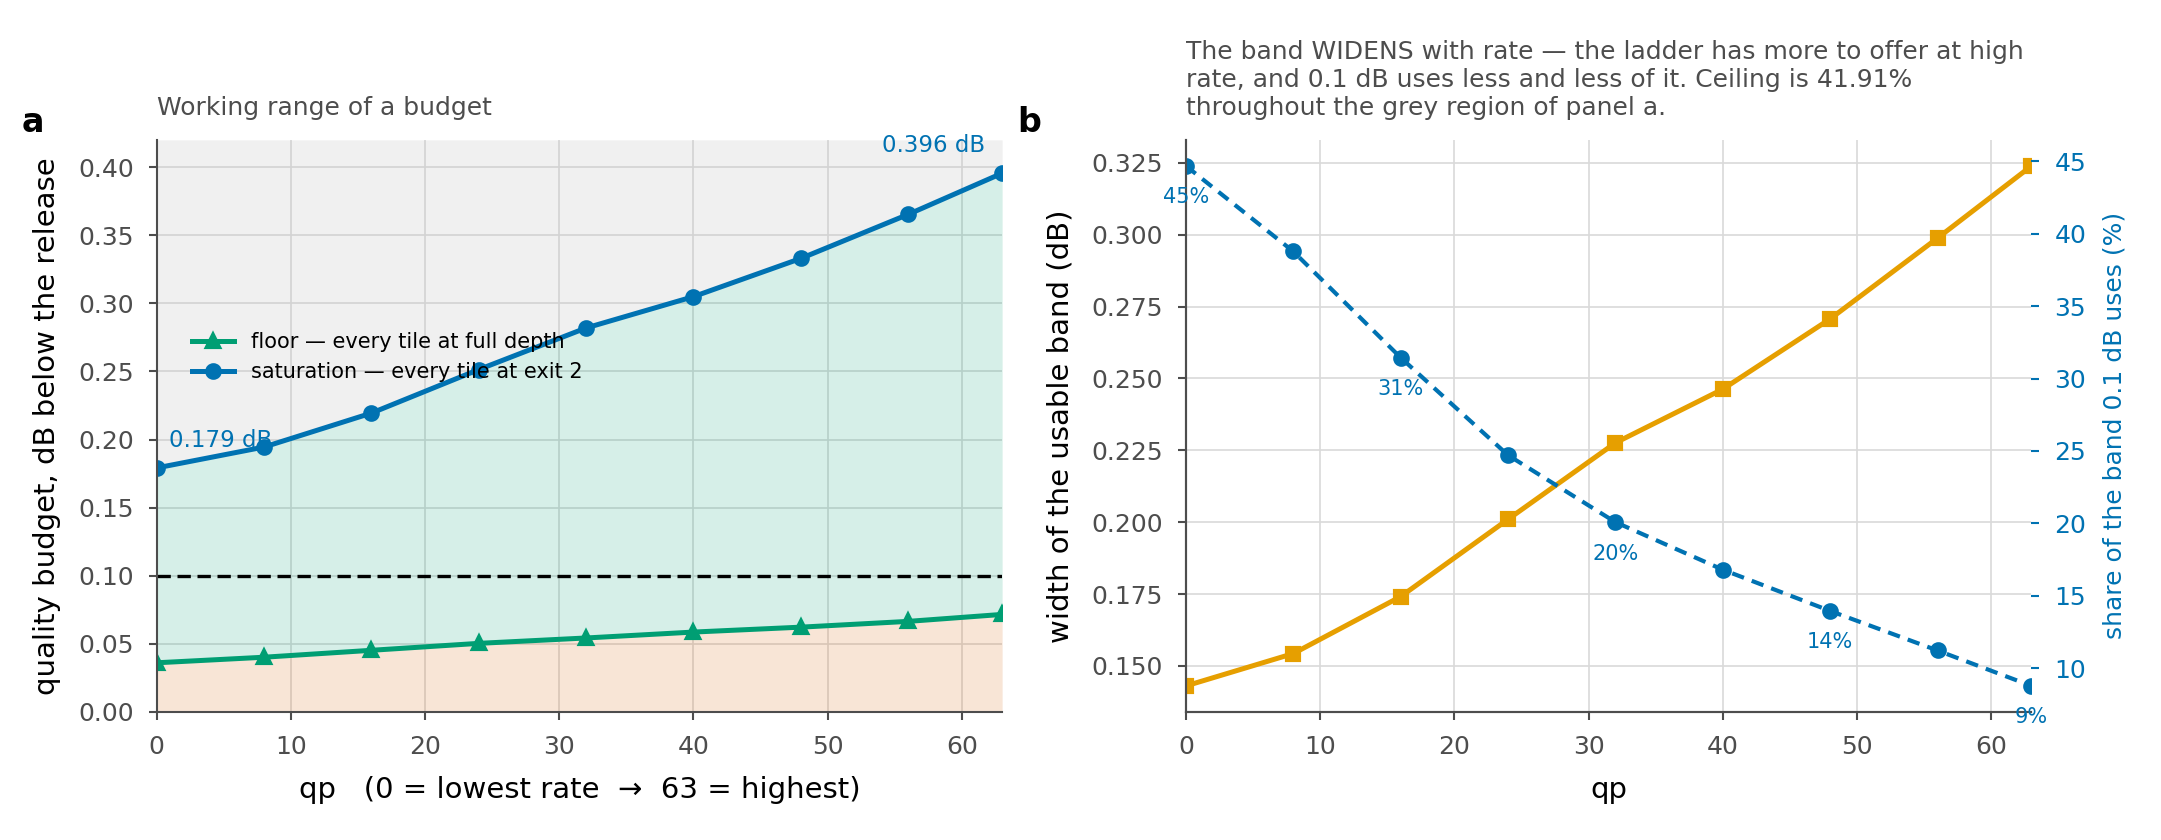
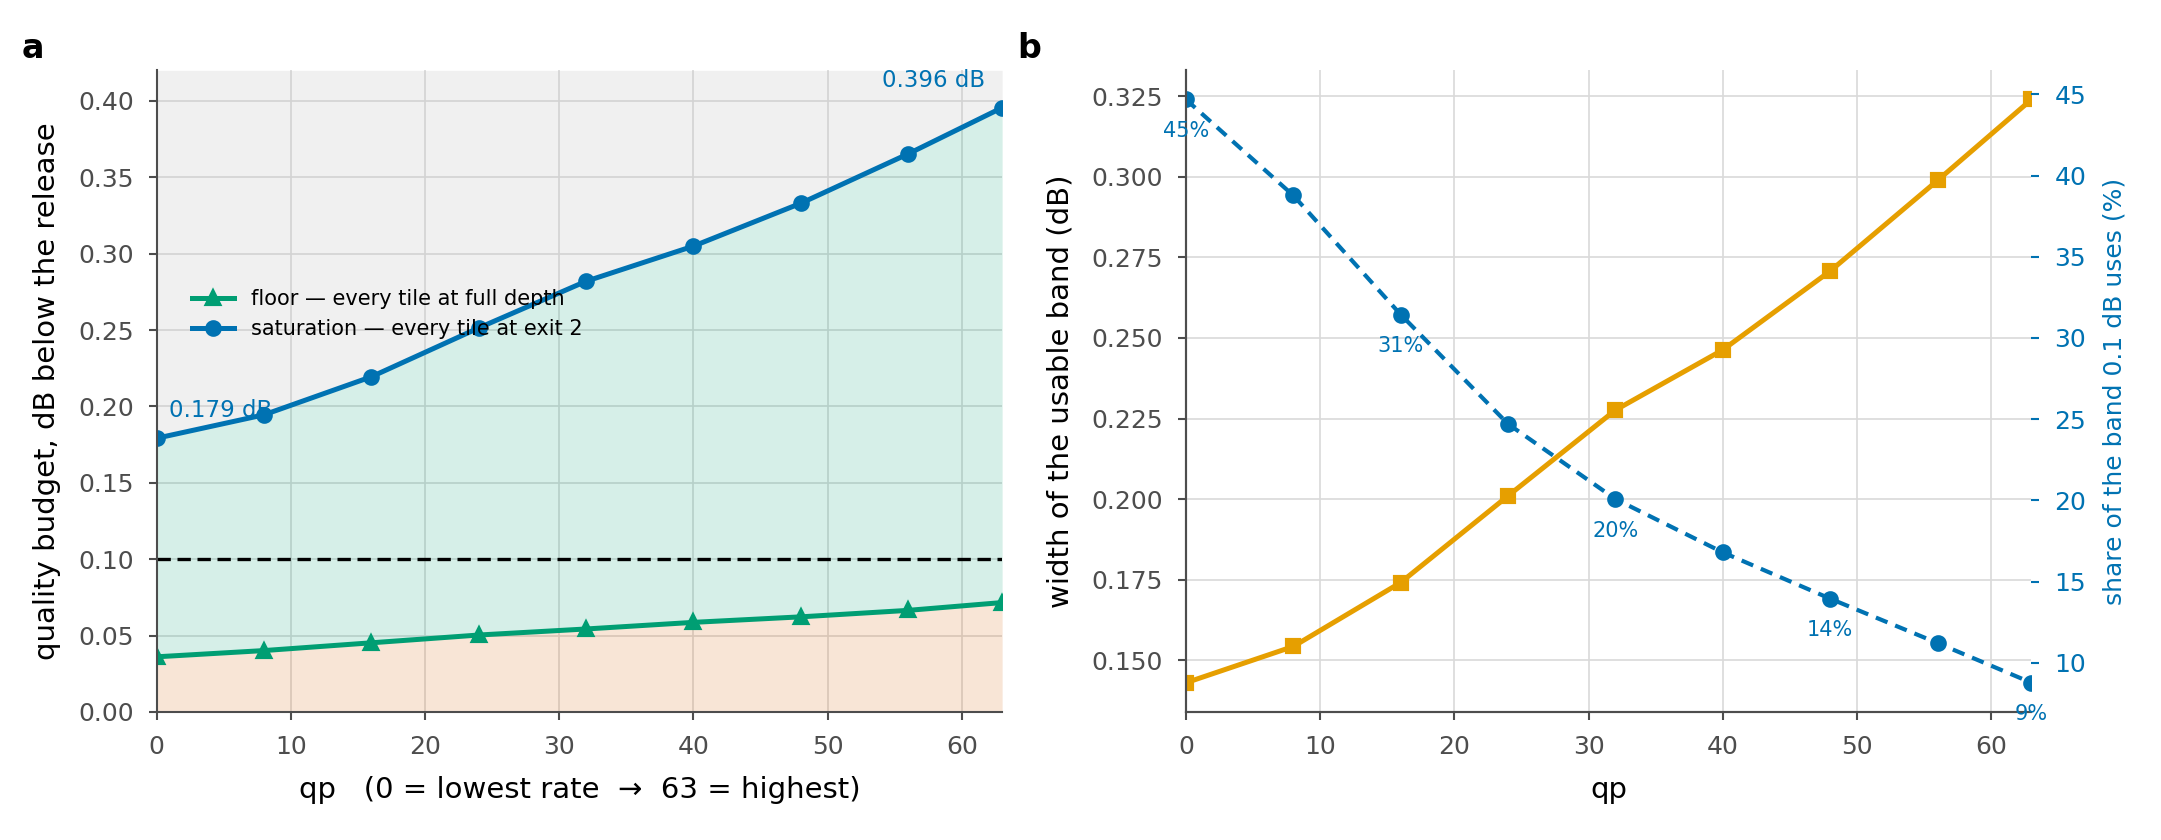
Strip the two remaining explanatory paragraphs out of figure panels
The saturation figure had a three-line sentence sitting where a panel title
goes, and the working-range panel had a label the axis already carried. Both
are gone; the caption says it at text size, where it can be read.

diff --git a/scripts/saturation_figure.py b/scripts/saturation_figure.py
@@ -61,8 +61,6 @@ a.set_ylim(0, 0.42); a.set_xlim(qp[0], qp[-1])
 a.set_xlabel("qp   (0 = lowest rate  →  63 = highest)")
 a.set_ylabel("quality budget, dB below the release")
 a.legend(loc="center left", fontsize=5, bbox_to_anchor=(0.02, 0.62))
-a.set_title("Working range of a budget",
-            fontsize=6, color=ns.INK2, loc="left")
 ns.panel(a, "a")
 
 # ---- b: what a budget is worth, and where it stops being worth anything ----
@@ -80,10 +78,6 @@ b2.grid(False)
 for x, u in zip(qp[::2], (100 * used)[::2]):
     b2.annotate(f"{u:.0f}%", (x, u), fontsize=5, color=ns.BLUE,
                 textcoords="offset points", xytext=(0, -9), ha="center")
-b.set_title(f"The band WIDENS with rate — the ladder has more to offer at high\n"
-            f"rate, and 0.1 dB uses less and less of it. Ceiling is {CEIL:.2f}%\n"
-            "throughout the grey region of panel a.",
-            fontsize=6, color=ns.INK2, loc="left")
 ns.panel(b, "b", dx=-0.20)
 
 fig.tight_layout()
